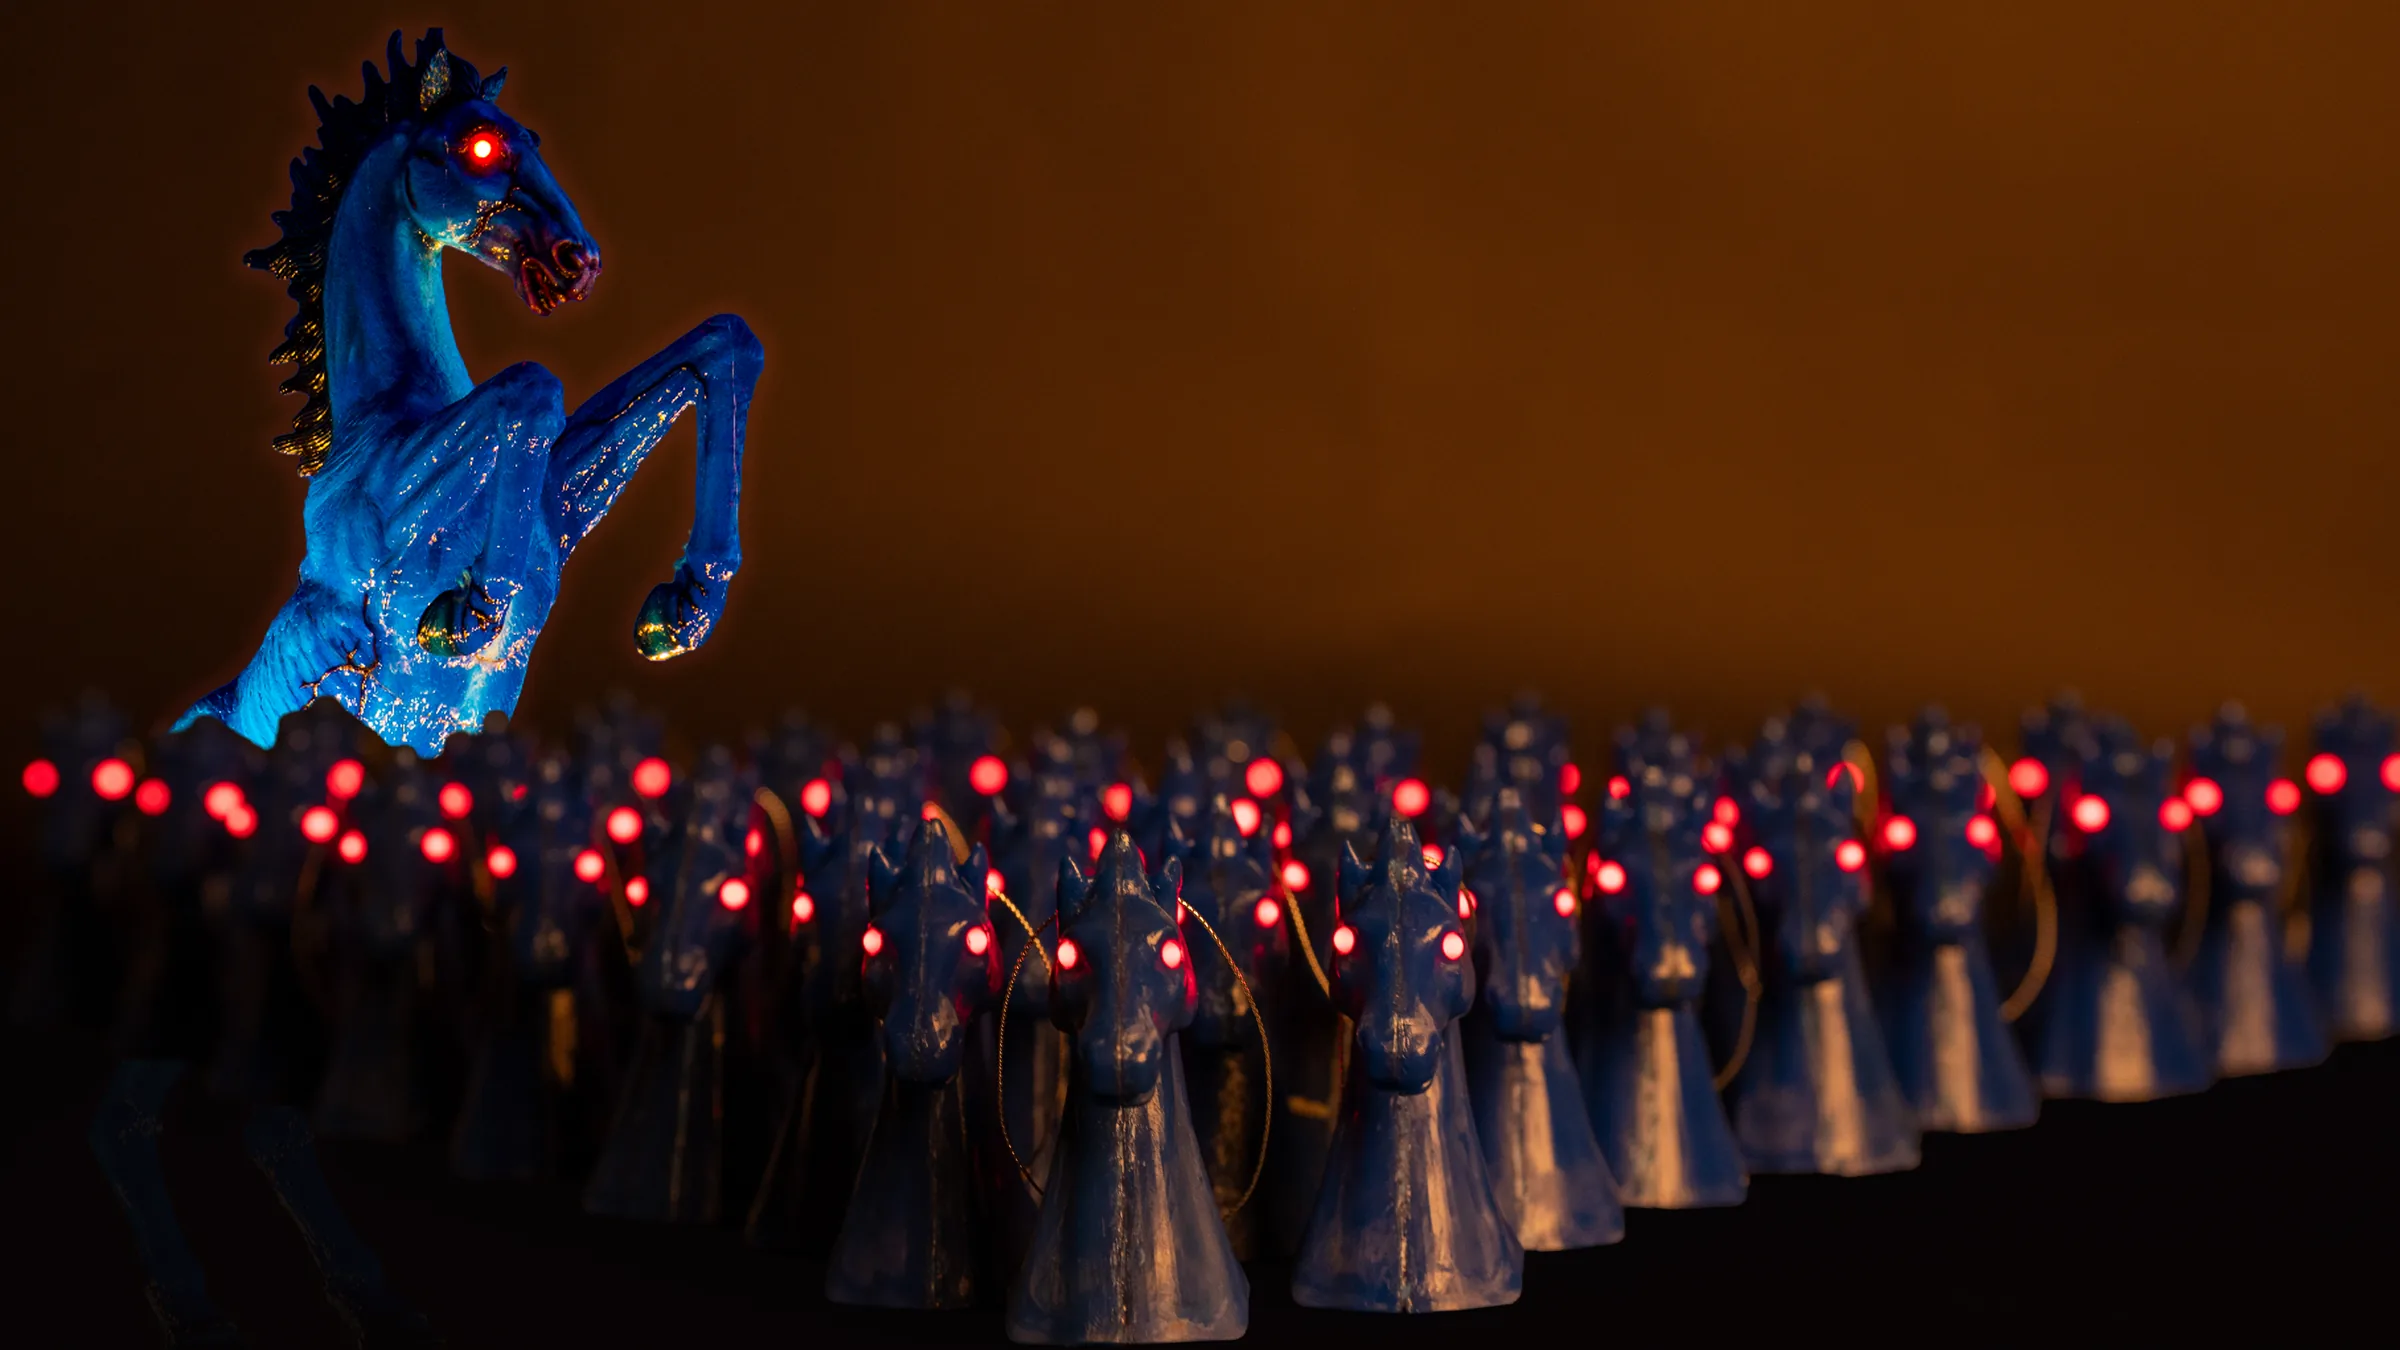
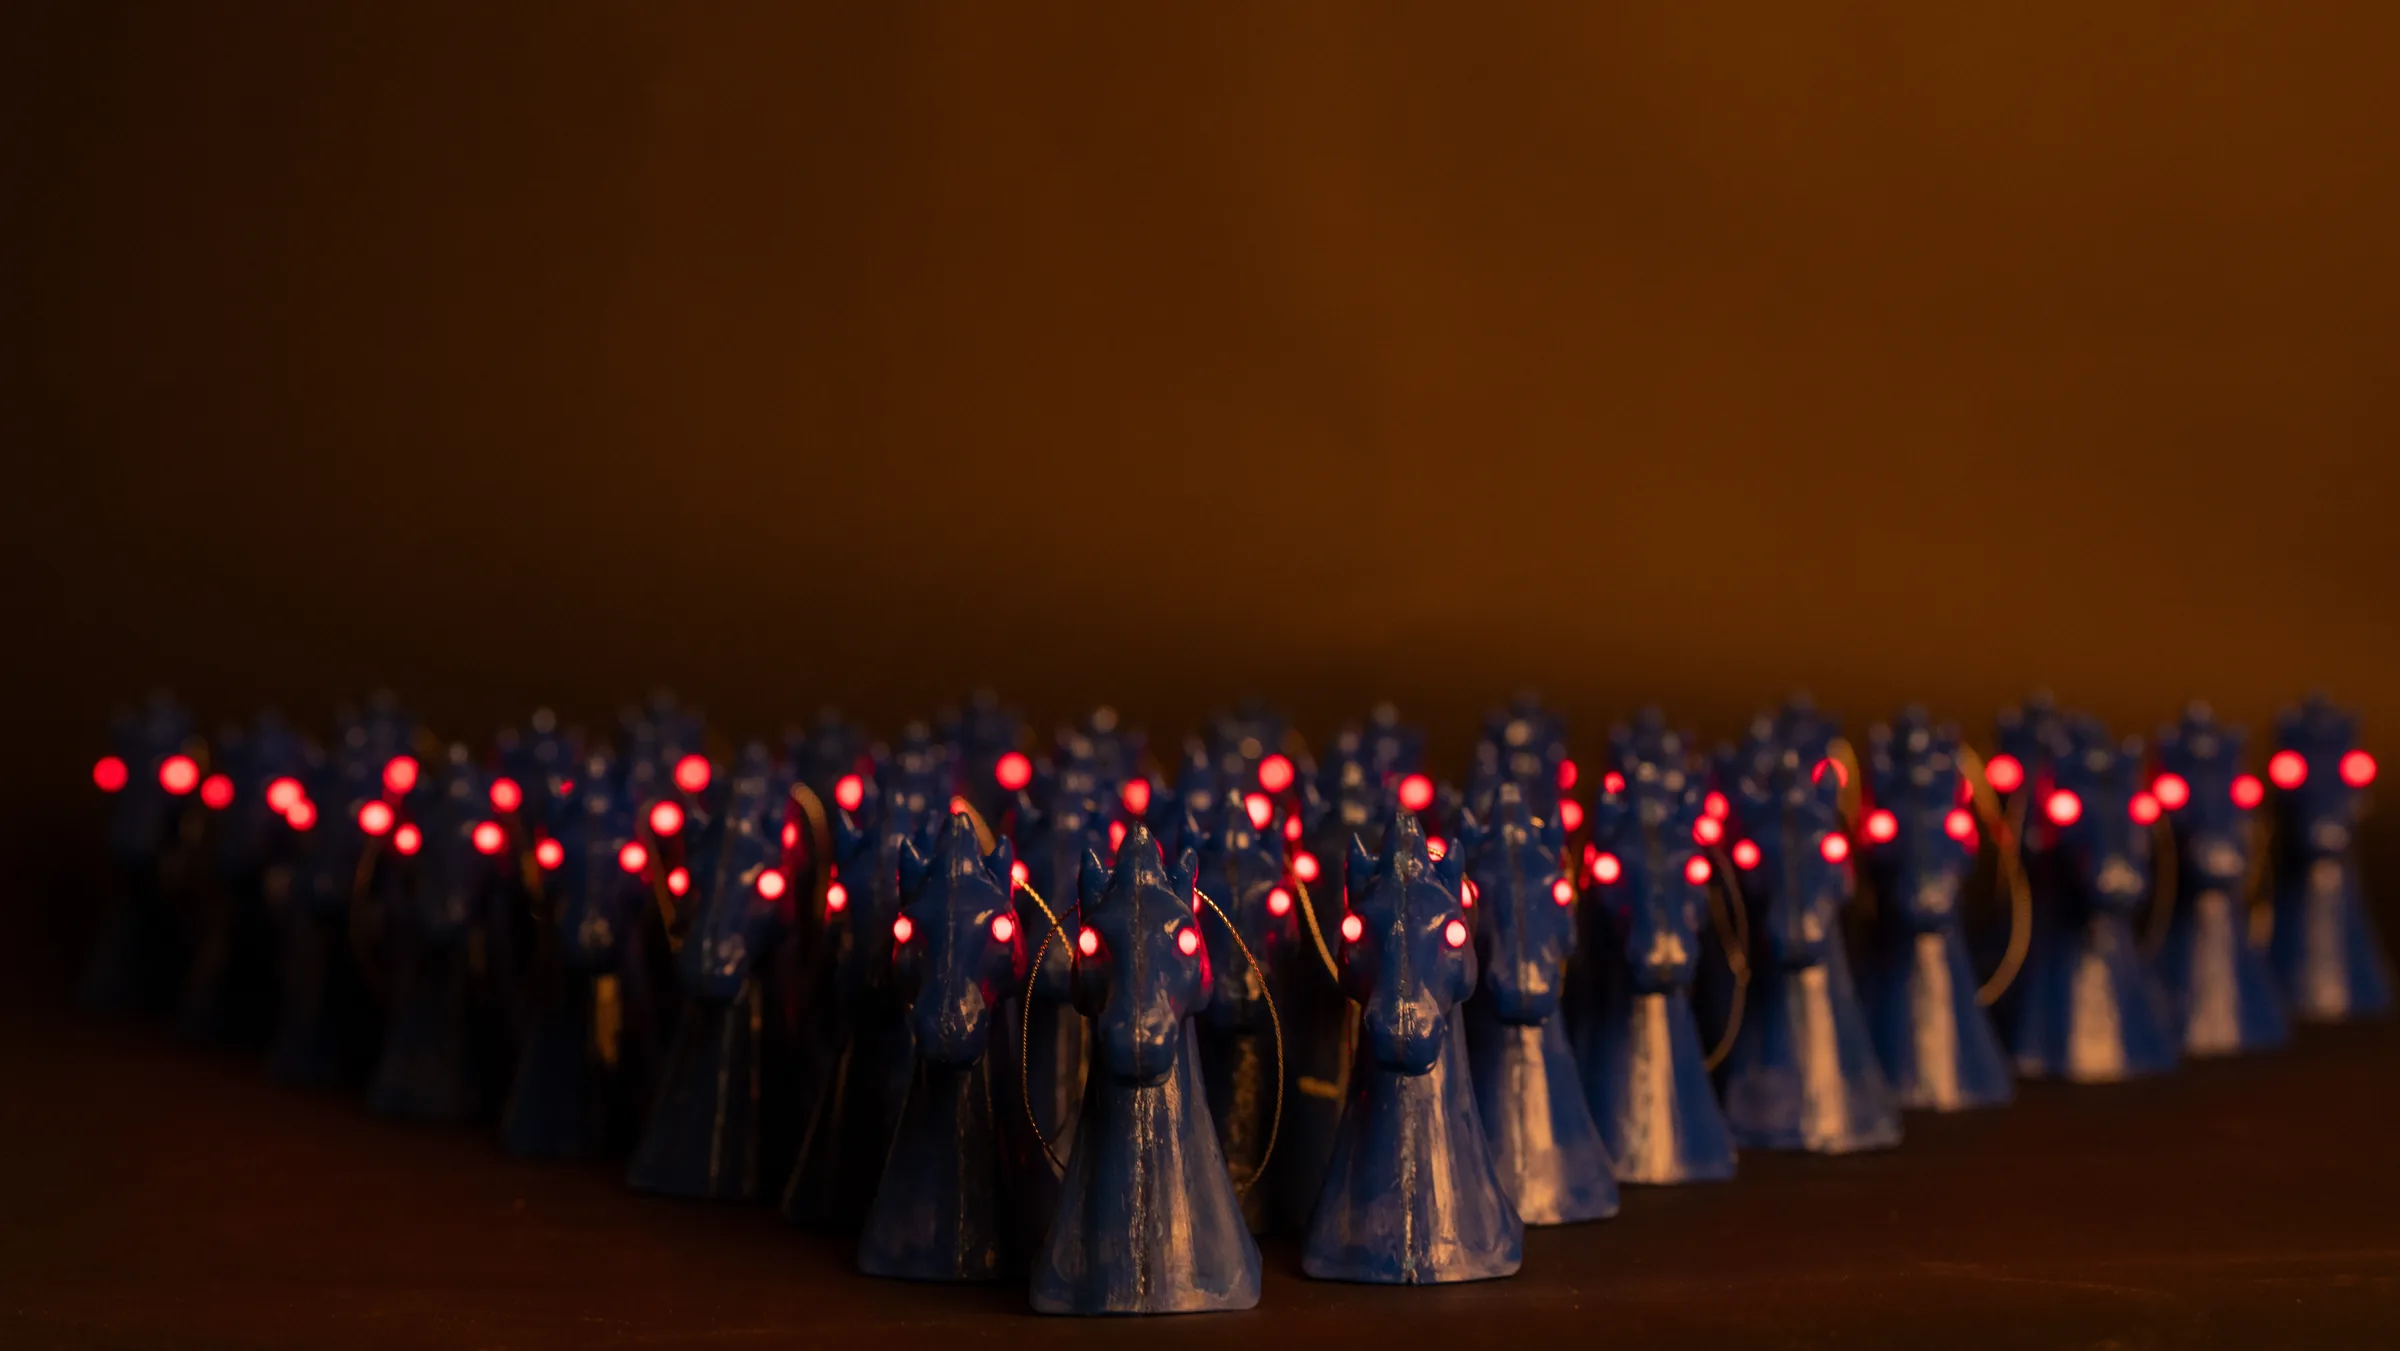
bludolph: new hero shots at top of page
- new heroshot + heroshot-3, full width above the facts
- old heroshot.PNG replaced by heroshot.jpg

diff --git a/src/pages/Bludolph.tsx b/src/pages/Bludolph.tsx
@@ -4,6 +4,7 @@ import { img } from '../lib/img';
 import { video } from '../lib/video';
 
 const hero = img('bludolph/heroshot');
+const hero3 = img('bludolph/heroshot-3');
 const sketches = img('bludolph/sketches');
 const skiing = img('bludolph/skiing');
 const head = img('bludolph/head');
@@ -37,6 +38,20 @@ export default function Bludolph() {
 
       <section className="project__intro">
         <h1 className="bludolph__title">bludolph</h1>
+        <div className="bludolph__heroes">
+          <Zoomable className="project__hero">
+            <img
+              src={hero}
+              alt="Rows of blue Bludolph ornaments with glowing red LED eyes"
+            />
+          </Zoomable>
+          <Zoomable className="project__hero">
+            <img
+              src={hero3}
+              alt="A long line of blue Bludolph ornaments with red eyes, receding into the dark"
+            />
+          </Zoomable>
+        </div>
         <div className="project__facts">
           <h2>what?</h2>
           <p>
@@ -56,12 +71,6 @@ export default function Bludolph() {
           <h2>who?</h2>
           <p>Marvin Melzer &amp; Veronica Dryer</p>
         </div>
-        <Zoomable className="project__hero">
-          <img
-            src={hero}
-            alt="A rearing blue Bludolph horse with glowing red eyes above rows of blue ornaments with red LED eyes"
-          />
-        </Zoomable>
       </section>
 
       <section className="project__section">

diff --git a/src/index.css b/src/index.css
@@ -2006,10 +2006,27 @@ video.project__figure {
   white-space: nowrap;
 }
 
+/* single column: title → hero shots → facts */
 .bludolph .project__intro {
-  grid-template-columns: 1fr 1fr;
-  gap: 0 50px;
-  align-items: start;
+  display: block;
+}
+
+.bludolph__heroes {
+  display: grid;
+  gap: 24px;
+  margin-bottom: 24px;
+}
+
+.bludolph__heroes > .project__hero {
+  width: 100%;
+  max-height: none;
+}
+
+.bludolph__heroes > .project__hero img {
+  display: block;
+  width: 100%;
+  height: auto;
+  border-radius: var(--radius);
 }
 
 .bludolph .project__intro .bludolph__title {
